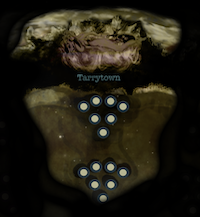
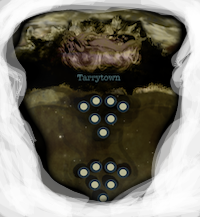
Trim the imageswith some alpha blending

diff --git a/index.html b/index.html
@@ -87,8 +87,8 @@
                 a strange mid-century mansion<br/> overlooking the lower Hudson River,<br/> still darkened by WWII
                 <img src="./img/tarrytown-sm.png" style="padding-left: 80px"/>
             </li>
-            <li style="max-width: 320px">
-                The city of Manaus and a tribal compound<br/> on the upper Amazon<br/> nearly in the 21st century,<br/> sites of the ravaging of the great river
+            <li style="max-width: 360px">
+                The city of Manaus and a tribal compound<br/> on the upper Amazon nearly in the 21st century,<br/> sites of the ravaging of the great river
                 <img src="./img/amazon-sm.png" style="padding-left: 160px"/>
             </li>
         </ul>
